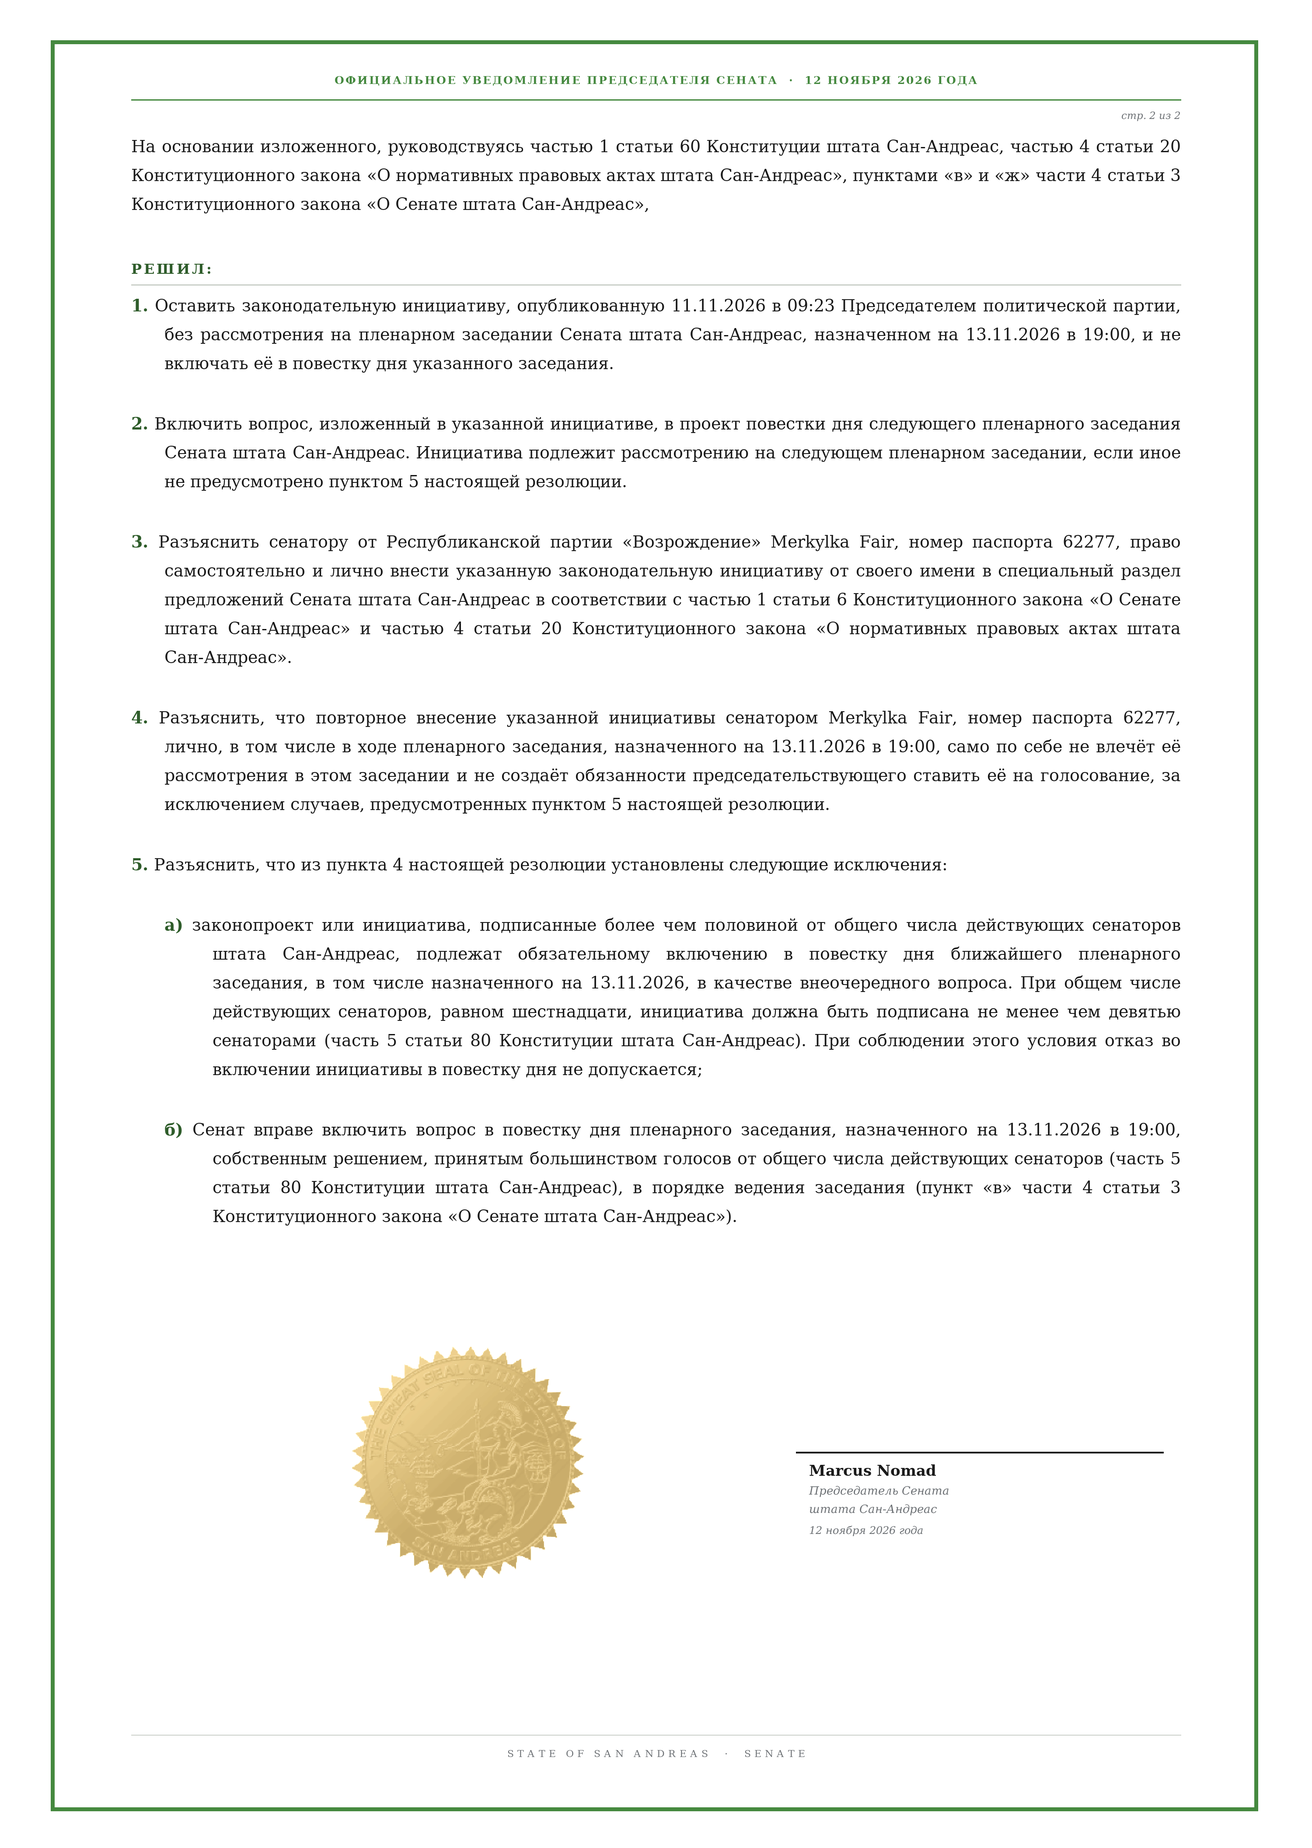
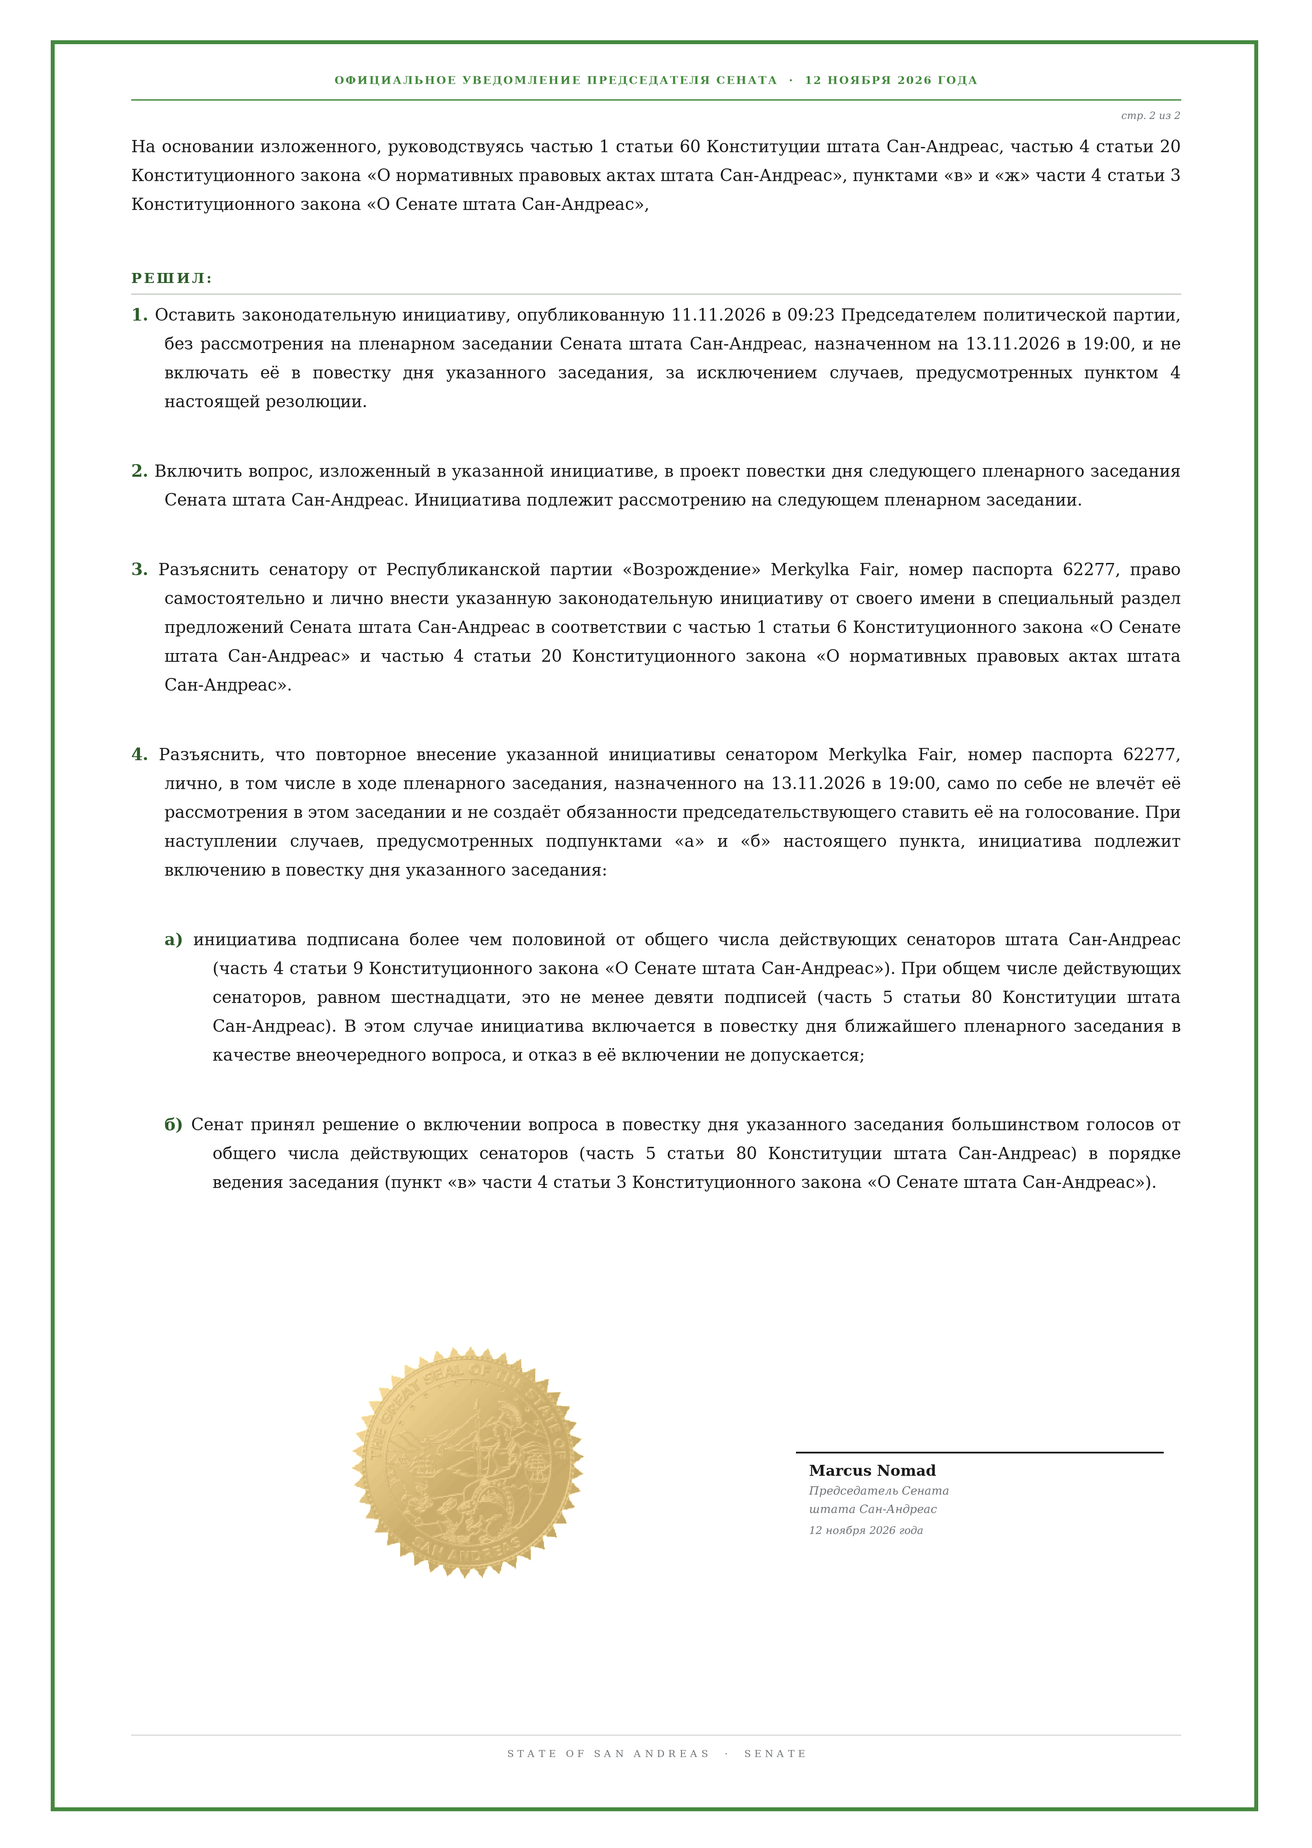
Резолюция: убрано дублирование, исключения внутри п. 4

Changed region(s): [[0.093, 0.125, 0.899, 0.6561]]

diff --git a/tools/make_senat_notice_png.py b/tools/make_senat_notice_png.py
@@ -80,11 +80,11 @@ DECISIONS = [
     ("1.", "Оставить законодательную инициативу, опубликованную 11.11.2026 в 09:23 "
            "Председателем политической партии, без рассмотрения на пленарном заседании "
            "Сената штата Сан-Андреас, назначенном на 13.11.2026 в 19:00, и не включать её в "
-           "повестку дня указанного заседания."),
+           "повестку дня указанного заседания, за исключением случаев, предусмотренных "
+           "пунктом 4 настоящей резолюции."),
     ("2.", "Включить вопрос, изложенный в указанной инициативе, в проект повестки дня "
            "следующего пленарного заседания Сената штата Сан-Андреас. Инициатива подлежит "
-           "рассмотрению на следующем пленарном заседании, если иное не предусмотрено "
-           "пунктом 5 настоящей резолюции."),
+           "рассмотрению на следующем пленарном заседании."),
     ("3.", "Разъяснить сенатору от Республиканской партии «Возрождение» Merkylka Fair"
            ", номер паспорта 62277, право самостоятельно и лично внести указанную законодательную "
            "инициативу от своего имени в специальный раздел предложений Сената штата "
@@ -94,26 +94,22 @@ DECISIONS = [
     ("4.", "Разъяснить, что повторное внесение указанной инициативы сенатором Merkylka Fair"
            ", номер паспорта 62277, лично, в том числе в ходе пленарного заседания, назначенного на "
            "13.11.2026 в 19:00, само по себе не влечёт её рассмотрения в этом заседании и не "
-           "создаёт обязанности председательствующего ставить её на голосование, за "
-           "исключением случаев, предусмотренных пунктом 5 настоящей резолюции."),
-    ("5.", "Разъяснить, что из пункта 4 настоящей резолюции установлены следующие "
-           "исключения:"),
+           "создаёт обязанности председательствующего ставить её на голосование. При "
+           "наступлении случаев, предусмотренных подпунктами «а» и «б» настоящего пункта, "
+           "инициатива подлежит включению в повестку дня указанного заседания:"),
 ]
 
 EXCEPTIONS = [
-    ("а)", "законопроект или инициатива, подписанные более чем половиной от общего числа "
-           "действующих сенаторов штата Сан-Андреас, подлежат обязательному включению в "
-           "повестку дня ближайшего пленарного заседания, в том числе назначенного на "
-           "13.11.2026, в качестве внеочередного вопроса. "
-           "При общем числе действующих сенаторов, равном шестнадцати, инициатива должна "
-           "быть подписана не менее чем девятью сенаторами (часть 5 статьи 80 Конституции "
-           "штата Сан-Андреас). При соблюдении этого условия отказ во включении инициативы в "
-           "повестку дня не допускается;"),
-    ("б)", "Сенат вправе включить вопрос в повестку дня пленарного заседания, назначенного "
-           "на 13.11.2026 в 19:00, собственным решением, принятым большинством голосов от "
-           "общего числа действующих сенаторов (часть 5 статьи 80 Конституции штата "
-           "Сан-Андреас), в порядке ведения заседания (пункт «в» части 4 статьи 3 "
-           "Конституционного закона «О Сенате штата Сан-Андреас»)."),
+    ("а)", "инициатива подписана более чем половиной от общего числа действующих сенаторов "
+           "штата Сан-Андреас (часть 4 статьи 9 Конституционного закона «О Сенате штата "
+           "Сан-Андреас»). При общем числе действующих сенаторов, равном шестнадцати, это не "
+           "менее девяти подписей (часть 5 статьи 80 Конституции штата Сан-Андреас). В этом "
+           "случае инициатива включается в повестку дня ближайшего пленарного заседания "
+           "в качестве внеочередного вопроса, и отказ в её включении не допускается;"),
+    ("б)", "Сенат принял решение о включении вопроса в повестку дня указанного заседания "
+           "большинством голосов от общего числа действующих сенаторов (часть 5 статьи 80 "
+           "Конституции штата Сан-Андреас) в порядке ведения заседания (пункт «в» части 4 "
+           "статьи 3 Конституционного закона «О Сенате штата Сан-Андреас»)."),
 ]
 
 # ------------------------------------------------------------------ блоки

diff --git a/README.md b/README.md
@@ -12,7 +12,7 @@
 | `Аналитика/` | Разборы: статус IAD при задержании, схема аннулирования лицензий правоохранительного блока: причины, нормы, связи (промпт для картинки + SVG-референс), исходные заметки (`IAD.txt`). | справочно |
 | `Аналитика/Новое законодательство (12.11.2026)/` | Сводка изменений законодательства после загрузки папки `Новая законка`: что и где изменилось по каждому акту (Дорожный кодекс ст. 10–10.1; УК ст. 5.8, 12.8, 13.4; КЗ «О Сенате» ст. 15 ч. 3; Регламент ОГП ст. 16 и 22 ч. 3; Закон об ОГП ст. 39 ч. 5), перечень добавленных документов, переименований и материалов, которых нет в новой папке. | справочно |
 | `Сенат/Протокол заседания (09.11.2026)/` | Три варианта восстановления протокола заседания 09.11.2026, который в ходе заседания не велся. Вариант А - постановление Сената от 12.11 о подтверждении итогов и состава; вариант Б - протокол, составленный 12.11 по журналу голосований с прямой оговоркой о дате; PNG-версия протокола - две страницы A4 (300 dpi) в парадной вёрстке с эмблемой и печатью, в таблице состава графа «№ паспорта» с оговоркой под таблицей. 16 сенаторов, порог 9 голосов, таблица четырёх голосований. | на согласовании |
-| `Сенат/Уведомление о перенесении рассмотрения (12.11.2026)/` | Резолюция Спикера Сената от 12.11.2026 о перенесении рассмотрения законодательной инициативы на следующее пленарное заседание. Инициатива подана 11.11.2026 в 09:23 председателем партии, а не сенатором (ст. 60 ч. 1 Конституции, ст. 2 ч. 4 и ст. 20 ч. 4 КЗ «О нормативных правовых актах»), поэтому в повестку 13.11 не включается, но вопрос вносится в проект повестки следующего заседания. Пункты 4-5: повторное личное внесение сенатором в ходе заседания 13.11 рассмотрено не будет, кроме двух исключений - подписи более половины действующих сенаторов (ст. 9 ч. 4 КЗ «О Сенате», при 16 сенаторах не менее 9) и решение Сената о включении вопроса в повестку (ст. 80 ч. 5 Конституции). Две страницы A4 300 dpi. | к подаче |
+| `Сенат/Уведомление о перенесении рассмотрения (12.11.2026)/` | Резолюция Спикера Сената от 12.11.2026 о перенесении рассмотрения законодательной инициативы на следующее пленарное заседание. Инициатива подана 11.11.2026 в 09:23 председателем партии, а не сенатором (ст. 60 ч. 1 Конституции, ст. 2 ч. 4 и ст. 20 ч. 4 КЗ «О нормативных правовых актах»), поэтому в повестку 13.11 не включается, но вопрос вносится в проект повестки следующего заседания. Пункт 4: повторное личное внесение сенатором в ходе заседания 13.11 рассмотрено не будет, кроме двух случаев - подписи более половины действующих сенаторов (при 16 сенаторах не менее 9, ст. 9 ч. 4 КЗ «О Сенате») и решение Сената о включении вопроса в повестку (ст. 80 ч. 5 Конституции). Две страницы A4 300 dpi. | к подаче |
 | `Аналитика/Коллизии — Закон о РПО/` | Разбор № 1 серии «коллизии и дыры»: полный текст Закона «О деятельности региональных правоохранительных органах» с красными пометками неработающих норм и краткими пояснениями; сводка 15 положений (16 фрагментов), таблица 12 внутренних дефектов, итог по блокам переработки. | справочно |
 | `Аналитика/Коллизии — Закон об ОГП/` | Разбор № 2 серии: полный текст Закона «О деятельности офиса Генерального прокурора» с красными пометками неработающих норм и краткими пояснениями; сводка 22 положений (23 фрагмента). | справочно |
 | `Аналитика/Коллизии — КЗ О Правительстве/` | Разбор № 3 серии: Конституционный закон «О Правительстве» — полный текст с красными пометками норм, расходящихся с Конституцией; сводка 11 положений. | справочно |
